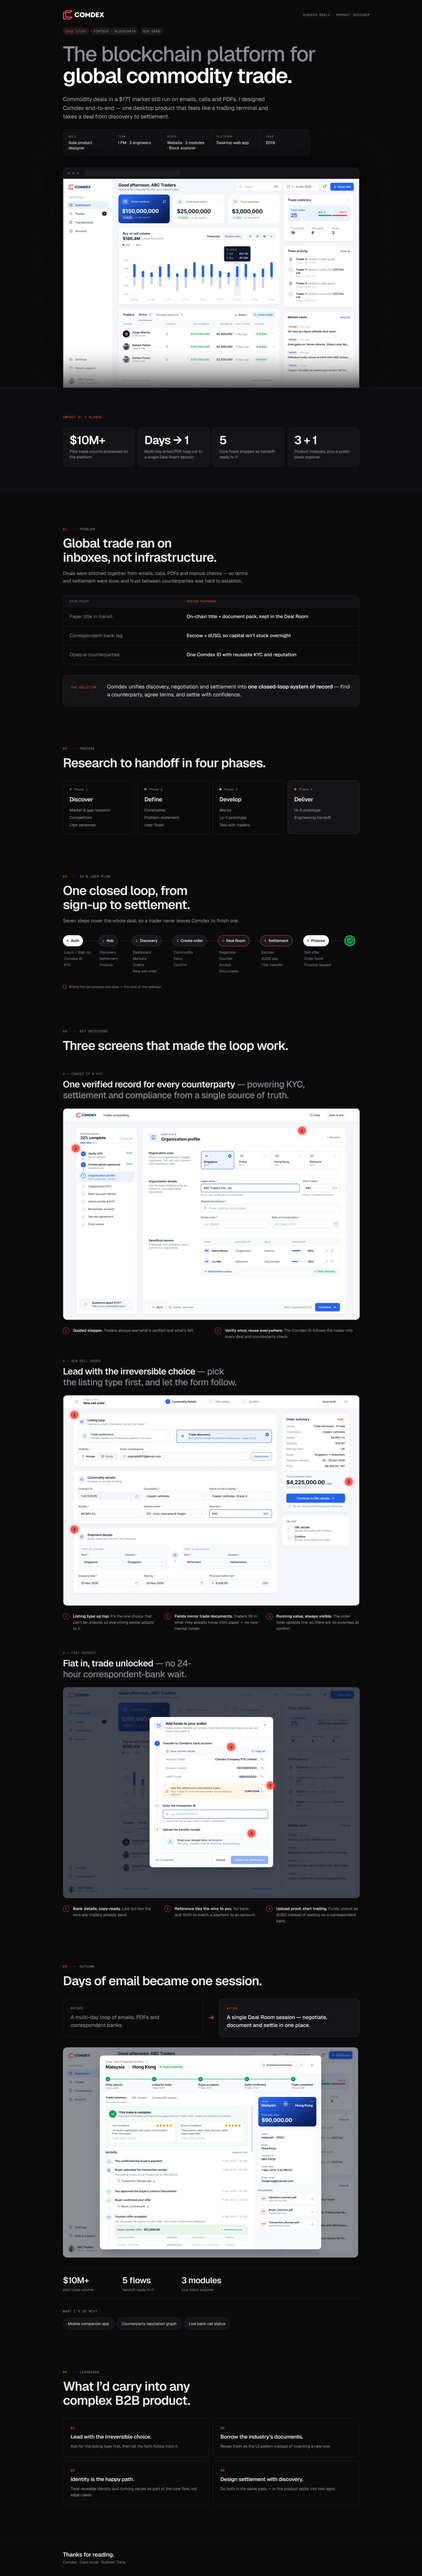
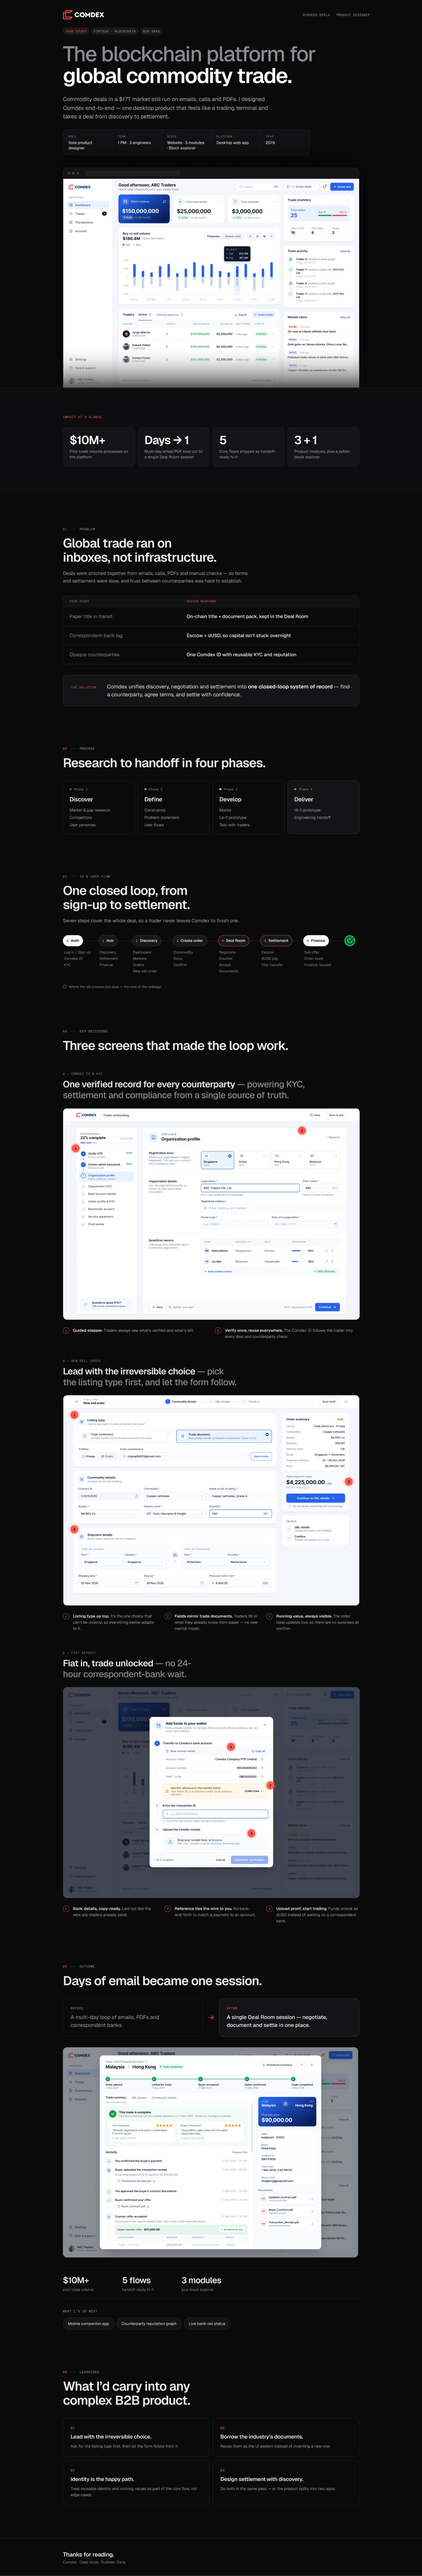
Comdex modal: updated case-study image
Claude-Session: https://claude.ai/code/session_01XsxMJzHnu4bQwP42zg3JzL

diff --git a/index.html b/index.html
@@ -206,6 +206,6 @@
     <button class="modal-close" type="button" id="modal-close" aria-label="Close case study"><svg width="20" height="20" viewBox="0 0 24 24" fill="none" stroke="currentColor" stroke-width="2" stroke-linecap="round" aria-hidden="true" focusable="false"><path d="M18 6L6 18M6 6l12 12"/></svg></button>
     <img class="modal-img" id="modal-img" width="1312" height="8000" alt="Comdex case study: a global commodity trading platform, from research to handoff, covering the problem, process, key screens and outcomes" decoding="async">
   </div>
-  <script src="app.js?v=18" defer></script>
+  <script src="app.js?v=19" defer></script>
 </body>
 </html>

diff --git a/app.js b/app.js
@@ -122,7 +122,7 @@ document.querySelectorAll('[data-open]').forEach(btn => {
 const modal = document.getElementById('modal');
 const modalImg = document.getElementById('modal-img');
 const modalClose = document.getElementById('modal-close');
-const images = { comdex: 'img/comdex-case-study.jpg' };
+const images = { comdex: 'img/comdex-case-study.jpg?v=2' };
 let modalFocus = null;
 function openModal(key) {
   if (!images[key]) return;
